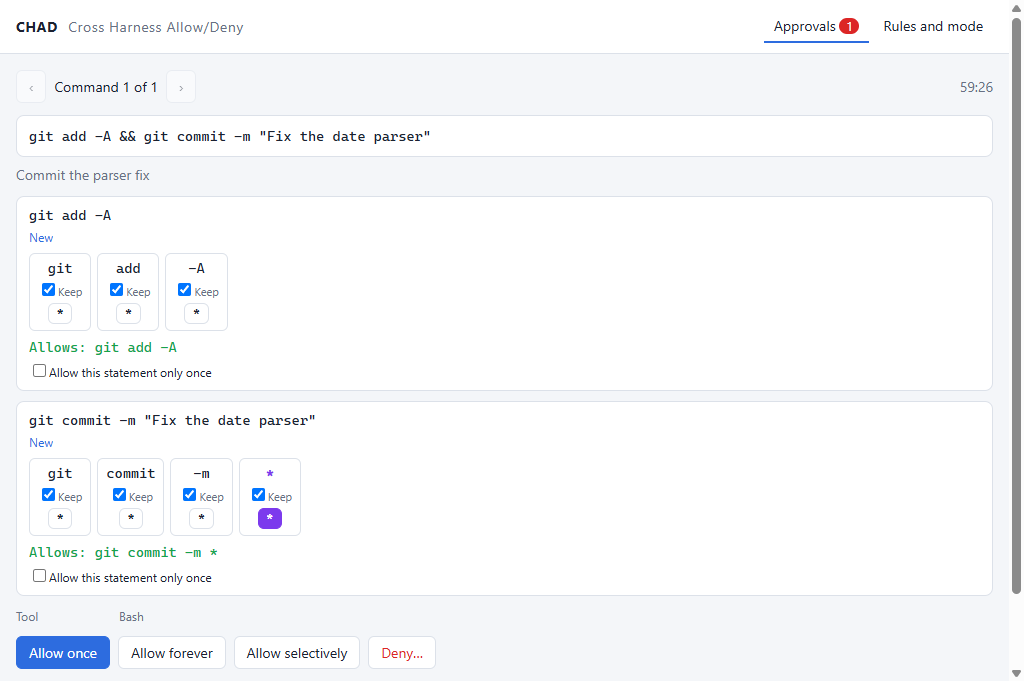
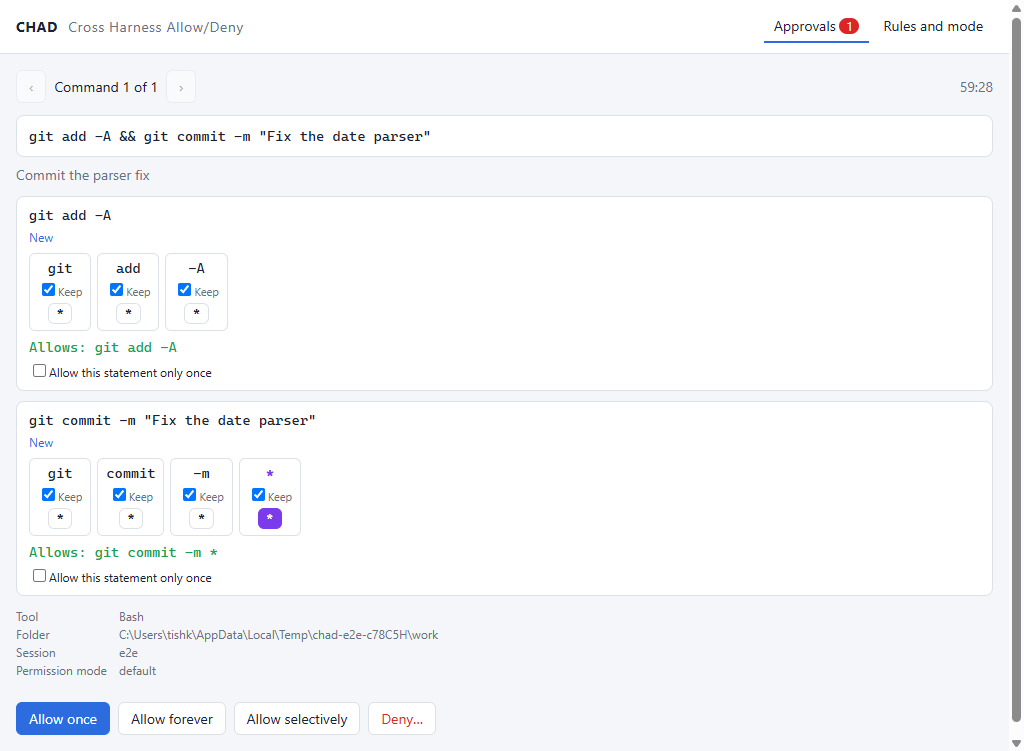
The app's own texts say "the harness", not Claude Code
What the running app shows a person or the model no longer names Claude Code:
- the Off mode label: "Off - the harness decides" (window, tray tooltip);
- mode descriptions (window, `chad mode`): Selective now reads "Commands marked
  Selective go through CHAD; the rest go to the harness's own approval.", Off
  "CHAD is switched off and the harness asks for approval itself.";
- refusal texts ("The harness marks this call denied intentionally", background
  shells, nothing captured), the executor's no-bash and no-cwd errors, the
  installer's last line, the config.yaml template comments.
README and SPEC mode passages say the harness, naming Claude Code where it is
the case today, and explain Selective the same way. Screenshots rendered again.

Task: 0045

diff --git a/ui/src/shared/types.ts b/ui/src/shared/types.ts
@@ -84,5 +84,5 @@ export const MODE_LABELS: Record<ModeId, string> = {
   chad: 'CHAD',
   allowAll: 'Allow all',
   selective: 'Selective Allowlist',
-  off: 'Off - Claude Code decides',
+  off: 'Off - the harness decides',
 };

diff --git a/src/chad/messages.py b/src/chad/messages.py
@@ -124,7 +124,7 @@ def executed(result: ExecutionResult, max_output_bytes: int) -> dict[str, Any]:
 
     lines = [
         heading,
-        'Claude Code marks this call "denied" intentionally; CHAD owns this execution.',
+        'The harness marks this call "denied" intentionally; CHAD owns this execution.',
     ]
     if result.execution_note:
         lines.append(
@@ -170,12 +170,12 @@ def started_in_background(pid: int, log: str, stop: str) -> dict[str, Any]:
     """A call that asked to run in the background: CHAD started it and did not wait."""
     lines = (
         f"{PREFIX} COMMAND STARTED IN THE BACKGROUND. Process id: {pid}.",
-        'Claude Code marks this call "denied" intentionally; CHAD owns this execution.',
+        'The harness marks this call "denied" intentionally; CHAD owns this execution.',
         "CHAD started the command and did not wait for it. Do not start it again.",
         f"Its stdout and stderr go to this file, which grows while it runs: {log}",
         "Read that file for its output. When the command exits, CHAD adds a last line: "
         '"[CHAD] The command exited with code N."',
-        "Claude Code's own tools for background shells do not know this process.",
+        "The harness's own tools for background shells do not know this process.",
         "The stop command below ends the command and the processes Windows records as its "
         "children. A program started by a compound Bash command (`a; b`, `a && b`) can keep "
         "running after it: check with `tasklist` and stop that one by its own process id.",
@@ -204,7 +204,7 @@ NOT_SELECTIVE = error(
 )
 
 NOTHING_CAPTURED = error(
-    "There is no recent command to add: CHAD has not passed a command to Claude Code's prompt "
-    "lately. Tell the user to say no to Claude Code's prompt for the command first, then start "
-    "/chad-add-selective-command again."
+    "There is no recent command to add: CHAD has not passed a command to the harness's own "
+    "approval prompt lately. Tell the user to say no to that prompt for the command first, then "
+    "start /chad-add-selective-command again."
 )

diff --git a/src/chad/executor.py b/src/chad/executor.py
@@ -307,7 +307,7 @@ def _bash_executable() -> str:
             return found
 
     raise FileNotFoundError(
-        "Claude Code called Bash, but CHAD could not find bash. Set "
+        "The harness called Bash, but CHAD could not find bash. Set "
         "CLAUDE_CODE_GIT_BASH_PATH or add Bash to PATH; the command did not run."
     )
 
@@ -352,7 +352,7 @@ def _working_directory(candidate: str) -> str:
     """The folder the call names; there is no fallback, a command runs where it was meant to."""
     if not candidate:
         raise FileNotFoundError(
-            "The call carried no working folder: the hook payload has no cwd. Claude Code sends "
+            "The call carried no working folder: the hook payload has no cwd. The harness sends "
             "one with every call, so either its hook format changed or CHAD's hook client is "
             "broken. CHAD needs fixing before it can run commands."
         )

diff --git a/src/chad/config.py b/src/chad/config.py
@@ -12,11 +12,11 @@ from chad import atomic, paths
 TEMPLATE = """\
 # CHAD settings. CHAD writes this file with the defaults when it does not exist.
 
-# Must equal the "timeout" registered for the CHAD hook in ~/.claude/settings.json.
+# Must equal the "timeout" the harness has registered for the CHAD hook.
 # `chad install` writes the hook with this value.
 hookTimeoutSeconds: 3600
 
-# The dispatcher answers at least this long before the hook timeout runs out, so Claude Code
+# The dispatcher answers at least this long before the hook timeout runs out, so the harness
 # always gets CHAD's decision rather than a timed-out hook.
 safetyMarginSeconds: 30
 

diff --git a/src/chad/switches.py b/src/chad/switches.py
@@ -26,8 +26,10 @@ class Mode(StrEnum):
 DESCRIPTIONS = {
     Mode.CHAD: "CHAD runs matching allow rules; new commands wait for your approval.",
     Mode.ALLOW_ALL: "CHAD runs every command without asking; the allow list is unchanged.",
-    Mode.SELECTIVE: "CHAD runs Selective rules; every other command goes to Claude Code.",
-    Mode.OFF: "CHAD is switched off and Claude Code asks for approval itself.",
+    Mode.SELECTIVE: (
+        "Commands marked Selective go through CHAD; the rest go to the harness's own approval."
+    ),
+    Mode.OFF: "CHAD is switched off and the harness asks for approval itself.",
 }
 
 

diff --git a/tests/unit/test_installer.py b/tests/unit/test_installer.py
@@ -93,7 +93,7 @@ def test_install_and_uninstall(options: Options) -> None:
     assert switches.deny_enabled()
     assert installer.get_autostart().endswith("-m chad.dispatcher")
     assert paths.allow_list_file().is_file() and paths.deny_list_file().is_file()
-    assert any("Restart Claude Code" in line for line in lines)
+    assert any("Restart the harness" in line for line in lines)
 
     # Running it again changes nothing that matters and leaves one hook.
     installer.install(options, lambda _: None)

diff --git a/src/chad/installer.py b/src/chad/installer.py
@@ -266,7 +266,7 @@ def install(options: Options, say: Callable[[str], None] = print) -> None:
         say("Autostart: the dispatcher starts at logon")
     else:
         set_autostart(None)
-    say("Done. Restart Claude Code so it picks up the hook.")
+    say("Done. Restart the harness so it picks up the hook.")
 
 
 def uninstall(options: Options, say: Callable[[str], None] = print) -> None:

diff --git a/README.md b/README.md
@@ -29,12 +29,12 @@ Claude Code ──stdin JSON──▶ hook client ──TCP 127.0.0.1 + token─
   literal text.
 - **A deny list above every other rule.** A rule catches any statement that contains all its
   words, in any order: `rm -rf` stops `rm dist -rf` and `bash -c "rm -rf /"` as well.
-- **Modes, switchable live.** Ask (CHAD), allow everything, allow only a curated Selective set
-  and hand the rest to Claude Code, or switch off - from the window, the CLI or the agent, with
-  nothing restarted.
+- **Modes, switchable live.** Ask (CHAD), allow everything, run only the commands marked
+  Selective and hand the rest to the harness's own approval (Claude Code's prompt today), or
+  switch off - from the window, the CLI or the agent, with nothing restarted.
 - **Fails closed, says why.** If CHAD fails (the dispatcher does not start or answer, its code
   does not load), the command does not run and the agent is told that CHAD is broken and why.
-  `chad mode off` in your own terminal hands every command back to Claude Code until it is
+  `chad mode off` in your own terminal hands every command back to the harness until it is
   fixed.
 
 CHAD runs commands it approves in its own dispatcher: Bash calls use Bash, and PowerShell calls
@@ -111,8 +111,8 @@ once so a stale one cannot come back.
 | Variable | Set by | Effect |
 |---|---|---|
 | `CHAD_HOME` | `chad install` | Data folder. Default `%LOCALAPPDATA%\CHAD` (`$XDG_STATE_HOME/chad` elsewhere). |
-| `CHAD_DISABLED` | `chad mode off` | Off: the hook steps aside and Claude Code asks for approval itself. |
-| `CHAD_SELECTIVE_ALLOWLIST` | `chad mode selective` | Selective: CHAD runs only commands covered by Selective rules; everything else goes to Claude Code's prompt. |
+| `CHAD_DISABLED` | `chad mode off` | Off: the hook steps aside and the harness (Claude Code today) asks for approval itself. |
+| `CHAD_SELECTIVE_ALLOWLIST` | `chad mode selective` | Selective: commands covered by rules marked Selective go through CHAD; every other command goes to the harness's own approval (Claude Code's prompt). |
 | `CHAD_ALLOW_ALL` | `chad mode allow-all` | Allow all: CHAD runs every command without asking. Nothing is written to the allow list. |
 | `CHAD_DENY` | `chad deny on`, `chad install --deny` | Arms the deny list, in every mode except Off. |
 | `CHAD_UI_DISABLED` | you | The dispatcher runs without the tray UI. |

diff --git a/tasks/3-done/0045-app-says-harness-not-claude-code.md b/tasks/3-done/0045-app-says-harness-not-claude-code.md
@@ -1,0 +1,27 @@
+# 0045 The app's own texts say "the harness", not Claude Code
+
+Source: the owner, 2026-11-05, looking at the Rules and mode screenshot: "Off - Claude Code
+decides" should go. The app itself must not name Claude Code, because it is meant to be run from
+any harness (only Claude Code today). The docs may name Claude Code, with "or another harness"
+where the text applies to harnesses in general. Selective mode should be explained better:
+commands marked Selective go through CHAD, the rest go to the harness's own approval.
+Scope: ui, engine, cli, docs
+
+## Business
+CHAD is "Cross Harness": Claude Code is the one harness it supports today, not the only one it
+is meant for. What a person or the model reads from the running app (the window, the tray
+tooltip, `chad mode`, `chad install`, the config template, the refusal texts) names the harness
+in general. Code comments, the Claude Code adapter's docs, and README/SPEC passages about the
+Claude Code integration itself still name Claude Code, because that is what they describe. The
+env var name `CLAUDE_CODE_GIT_BASH_PATH` stays: CHAD reads it.
+
+## Items
+- DONE - Mode Off label: "Off - the harness decides" (window and tray tooltip)
+- DONE - Mode descriptions: Selective "Commands marked Selective go through CHAD; the rest go to
+  the harness's own approval.", Off "... the harness asks for approval itself." (window and
+  `chad mode`)
+- DONE - Refusal texts, executor errors, installer's last line and the config.yaml template say
+  "the harness"
+- DONE - README and SPEC mode passages: the harness, with Claude Code named where it is the case
+  today; Selective explained as marked commands through CHAD, the rest to the harness
+- DONE - Screenshots in docs/images rendered again

diff --git a/docs/SPEC.md b/docs/SPEC.md
@@ -15,7 +15,7 @@ for Claude Code's `Bash` and `PowerShell` tools:
   answer, and a word-tile editor that turns "allow this one command" into "allow this shape of
   command";
 - four **modes** answering "who decides": CHAD asks, CHAD allows everything, only Selective rules
-  run through CHAD, or CHAD steps aside and Claude Code decides.
+  run through CHAD, or CHAD steps aside and the harness decides.
 
 CHAD executes commands it owns in its dispatcher. Bash calls run in Bash and PowerShell calls
 run in PowerShell. After execution CHAD answers `PreToolUse` with `deny`, carrying the exit code
@@ -121,8 +121,8 @@ including empty, is off.
 
 | Variable | Effect |
 |---|---|
-| `CHAD_DISABLED` | Mode **Off**: the hook client returns no decision without contacting the dispatcher. Claude Code decides. |
-| `CHAD_SELECTIVE_ALLOWLIST` | Mode **Selective**: CHAD runs statements covered by Selective rules; anything else goes to Claude Code. |
+| `CHAD_DISABLED` | Mode **Off**: the hook client returns no decision without contacting the dispatcher. The harness decides. |
+| `CHAD_SELECTIVE_ALLOWLIST` | Mode **Selective**: statements covered by rules marked Selective go through CHAD; anything else goes to the harness's own approval. |
 | `CHAD_ALLOW_ALL` | Mode **Allow all**: CHAD runs every command without asking. Nothing is written to the allow list. |
 | `CHAD_DENY` | Deny list armed, whatever the mode; a match is refused even when an allow rule, Allow all or the user would let it run. |
 
